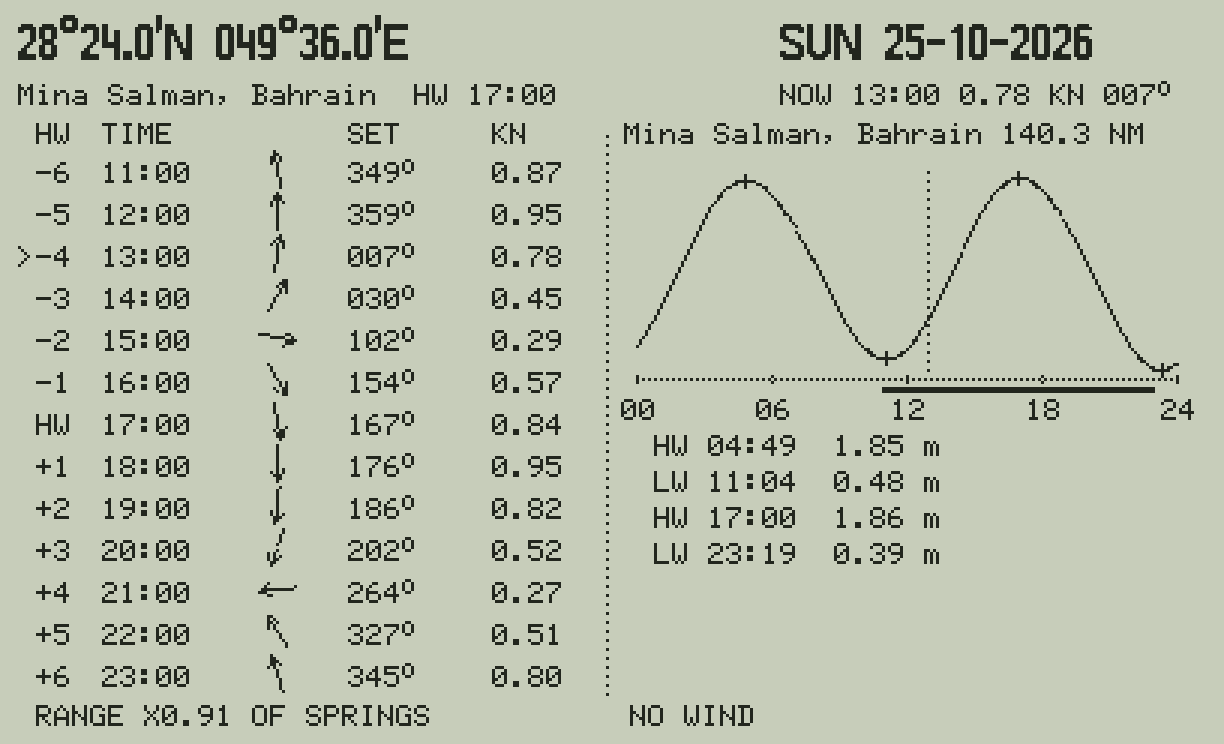
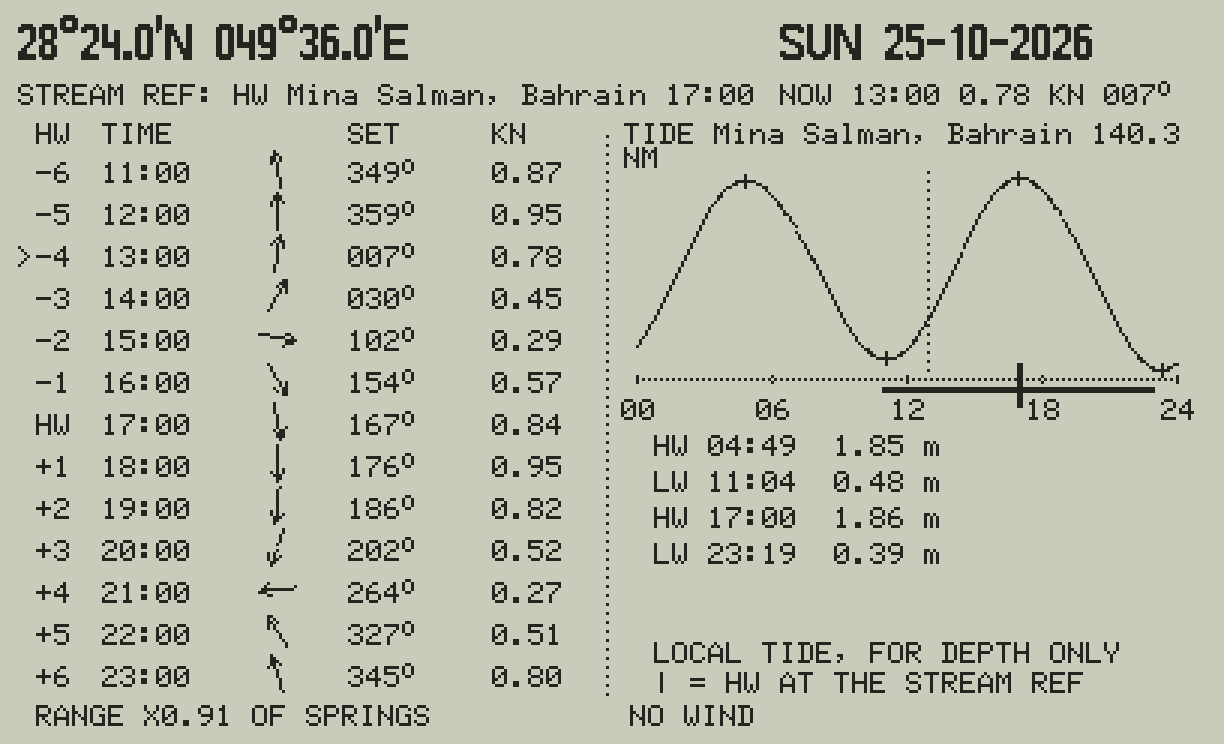
ARTF47: the stream's reference named in the header, the tide panel labelled for depth only, the reference's High Water marked on its time axis (and in the app)
Claude-Session: https://claude.ai/code/session_018W9jfABxhQusSnZyDxX4qx

diff --git a/app/tide47_gtk.py b/app/tide47_gtk.py
@@ -189,9 +189,9 @@ def arrow(cr, x, y, u, v, length, color=INK, width=1.6, head=5):
     cr.stroke()
 
 
-def draw_tide(cr, x, y, w, h, st, n, now=None, bar=None, title=True):
+def draw_tide(cr, x, y, w, h, st, n, now=None, bar=None, title=True, ref=None):
     """a station's day: the curve (exact, every 10 minutes), the high and low waters marked and listed below, now,
-    the 13 hours of a cycle as a bar (bar: (start, end) hours)"""
+    the 13 hours of a cycle as a bar (bar: (start, end) hours), the stream reference's High Water (ref: (hour, name))"""
     tz, ev, _ = R.day(st, n)
     f = height_fn(st, n)
     H = [f(k / 6) for k in range(145)]
@@ -215,6 +215,11 @@ def draw_tide(cr, x, y, w, h, st, n, now=None, bar=None, title=True):
     if bar:
         cr.set_source_rgb(*ACCENT); cr.set_line_width(4)
         cr.move_to(X(max(0, bar[0])), top + ch + 22); cr.line_to(X(min(24, bar[1])), top + ch + 22); cr.stroke()
+    if ref and 0 <= ref[0] <= 24:                      # the stream's reference High Water: the bar's centre
+        cr.set_source_rgb(*ACCENT); cr.set_line_width(2)
+        cr.move_to(X(ref[0]), top); cr.line_to(X(ref[0]), top + ch + 28); cr.stroke()
+        text(cr, X(ref[0]) + (-4 if ref[0] > 16 else 4), top + 12, 'HW %s %s (stream ref)' % (ref[1], hhmm(ref[0])), 10, True, ACCENT,
+             'r' if ref[0] > 16 else 'l')
     cr.set_source_rgb(*INK); cr.set_line_width(2)
     for k, v in enumerate(H):
         (cr.move_to if k == 0 else cr.line_to)(X(k / 6), Y(v))
@@ -321,8 +326,9 @@ def view_artf(cr, w, h, st):
     x0 = w * 0.46
     cr.set_source_rgb(*GRID); cr.set_line_width(1); cr.move_to(x0 - 10, 84); cr.line_to(x0 - 10, h - 10); cr.stroke()
     text(cr, x0, 98, 'Tide: %s  (%.1f nm)' % (s['name'], dnm), 14, True)
+    text(cr, w - 16, 98, 'local tide, for depth only', 11, color=SOFT, align='r')
     draw_tide(cr, x0, 104, w - x0 - 16, h - 120, s, st.n, h0 if n0 == st.n else None, bar=(t - 6, t + 6),
-              title=False)
+              title=False, ref=(t, st.d.ref['name']))
 
 
 def view_map(cr, w, h, st):

diff --git a/docs/ARTF.md b/docs/ARTF.md
@@ -13,6 +13,19 @@
 | right: the tide | the Aramco station **nearest the position** (its name and distance in nm): the day's curve, the 13 hours of the table marked as a bar under the time axis, now as a dotted line, and the high and low waters (time, height) |
 | the keys | **4 6** the High Water before / after, **1 3** the day before / after, **5** now, **7** a new position or wind, **0** the end |
 
+## Two different High Waters on one screen
+
+The stream table and the tide curve do not peak together, and that is right: the tidal wave reaches each station at
+its own time.
+
+- **The stream** (left, and the header: `STREAM REF: HW Ras Tanura 17:00`) always counts its 13 hours from **Ras
+  Tanura's** High Water, as the atlas's charts do. That High Water is the thick tick `|` on the tide panel's time axis,
+  in the middle of the bar of the 13 hours.
+- **The tide** (right, `TIDE Berri 12.3 NM`) is the nearest station's own curve, **for the depth only** (`LOCAL TIDE,
+  FOR DEPTH ONLY`). Its High Water comes earlier or later than Ras Tanura's: never take the stream's hours from it.
+
+The PC app's ARTF tab says the same: `local tide, for depth only` and a line at the reference's High Water.
+
 Outside the atlas (or on land) the left side says so and the tide is still shown: the nearest station works for any
 position (the Red Sea stations too).
 
